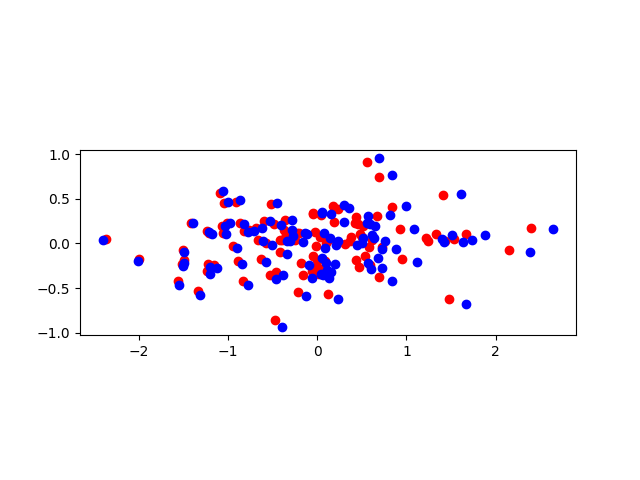
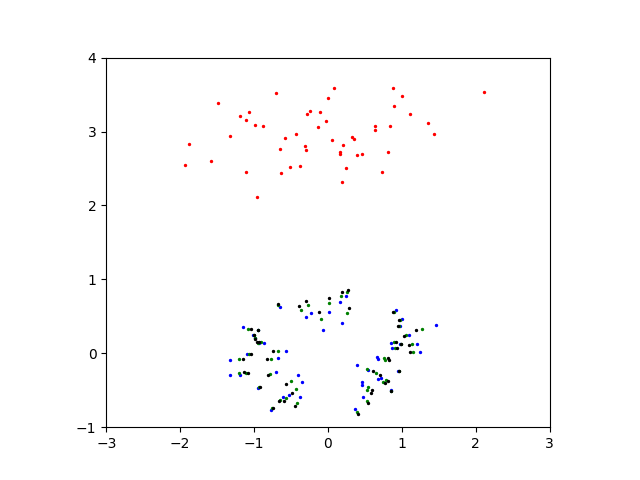
tunable exponent on magnitude works well as activation and norm

diff --git a/src/model.py b/src/model.py
@@ -5,7 +5,9 @@ import torch
 from .layers import (
     ComplexMLP,
     ComplexLinear,
-    complex_norm,
+    recenter,
+    magnitude_exponent,
+    MagnitudeExponent,
     get_rotary_position_vectors,
 )
 
@@ -29,18 +31,24 @@ class Spectracles(nn.Module):
         self.pe_dim = pe_dim
 
         self.proj_in = nn.Linear(input_channels, width, bias=False)
+        self.norm_in = MagnitudeExponent(pow=1.0)
 
         self.post_fft_projs = nn.ModuleList()
+        self.freq_mag_exps: list[MagnitudeExponent] = nn.ModuleList()
         self.post_fft_mlps = nn.ModuleList()
         self.post_ifft_projs = nn.ModuleList()
+        self.pixel_mag_exps: list[MagnitudeExponent] = nn.ModuleList()
         self.post_ifft_mlps = nn.ModuleList()
         for _ in range(blocks):
             self.post_fft_projs.append(ComplexLinear(width, width, bias=True))
+            self.freq_mag_exps.append(MagnitudeExponent(pow=0.5))
             self.post_fft_mlps.append(ComplexMLP(width, depth=mlp_depth))
             self.post_ifft_projs.append(ComplexLinear(width, width, bias=True))
+            self.pixel_mag_exps.append(MagnitudeExponent(pow=0.5))
             self.post_ifft_mlps.append(ComplexMLP(width, depth=mlp_depth))
 
         self.out_proj = ComplexLinear(width, num_classes, bias=True)
+        self.norm_out = MagnitudeExponent(pow=1.0)
 
         self.register_buffer("pos_enc", None)
 
@@ -51,6 +59,8 @@ class Spectracles(nn.Module):
 
         x = torch.movedim(x, 1, -1)  # B, C, H, W -> B, H, W, C
         x = self.proj_in(x)  # increase channel count
+        x = recenter(x, dim=(1,2,3))
+        x = self.norm_in(x)
         x = torch.complex(x, torch.zeros_like(x))
 
         if self.pos_enc is None:
@@ -66,17 +76,21 @@ class Spectracles(nn.Module):
             residual = x
 
             x = torch.fft.fftn(x, dim=(2, 3), norm="ortho")
-            x = self.post_fft_projs[i](x)
 
-            x = complex_norm(x, dim=-1)
+            x = self.post_fft_projs[i](x)
+            x = recenter(x, dim=(1,2,3))
+            x = self.freq_mag_exps[i](x)
+            
             x = x * self.pos_enc
 
             x = self.post_fft_mlps[i](x)
 
             x = torch.fft.ifftn(x, dim=(2, 3), norm="ortho")
-            x = self.post_ifft_projs[i](x)
 
-            x = complex_norm(x, dim=-1)
+            x = self.post_ifft_projs[i](x)
+            x = recenter(x, dim=(1,2,3))
+            x = self.pixel_mag_exps[i](x)
+
             x = x * self.pos_enc
 
             x = self.post_ifft_mlps[i](x)
@@ -86,6 +100,8 @@ class Spectracles(nn.Module):
         # Average all pixels and make final prediction
         x = x.mean(dim=(1, 2))
         x = self.out_proj(x)
+        x = recenter(x, dim=1)
+        x = self.norm_out(x)
         x = torch.abs(x)
 
         return x

diff --git a/scripts/train.py b/scripts/train.py
@@ -15,6 +15,7 @@ torch.autograd.set_detect_anomaly(True)
 import wandb
 
 from ..src.model import Spectracles
+from ..src.layers import MagnitudeExponent
 
 warnings.filterwarnings(
     "ignore", "Torchinductor does not support code generation for complex operators"
@@ -72,6 +73,7 @@ if not args.print_params:
     wandb.init(project="spectracles", config=config, name=args.name)
     include_fn = lambda path: path.endswith(".py")
     wandb.run.log_code("./spectracles", include_fn=include_fn)
+    wandb.watch(model, log="parameters", log_freq=390)
 
     train_transforms = (
         tvt.Compose(
@@ -159,10 +161,15 @@ if not args.print_params:
 
         train_accuracy = correct / total
 
-        # print("/n")
-        # for norm in model.complex_norms:
-        #     print(norm.mean_mag.item(), norm.std_mag.item())
-        # model.eval()
+        # print("\n")
+        # print([f"{norm.pow_offset.item() + 1:.2f}" for norm in model.freq_mag_exps])
+        # print([f"{norm.pow_offset.item() + 1:.2f}" for norm in model.pixel_mag_exps])
+        # print([f"{norm.pow_offset.item() + 1:.2f}" for norm in [l for l in model.post_fft_mlps[0].layers if isinstance(l, MagnitudeExponent)]])
+        # print([f"{norm.pow_offset.item() + 1:.2f}" for norm in [l for l in model.post_ifft_mlps[0].layers if isinstance(l, MagnitudeExponent)]])
+        # print([f"{norm.pow_offset.item() + 1:.2f}" for norm in [l for l in model.post_fft_mlps[-1].layers if isinstance(l, MagnitudeExponent)]])
+        # print([f"{norm.pow_offset.item() + 1:.2f}" for norm in [l for l in model.post_ifft_mlps[-1].layers if isinstance(l, MagnitudeExponent)]])
+
+        model.eval()
         if SAVE:
             torch.save(model.state_dict(), f"spectracles/weights/{epoch:03d}.ckpt")
 

diff --git a/src/layers.py b/src/layers.py
@@ -54,14 +54,22 @@ class ComplexActivation(nn.Module):
 
         return x
 
+def recenter(x: Tensor, dim: tuple) -> Tensor:
+    return x - torch.mean(x, dim=dim, keepdim=True)
 
-def complex_norm(x: Tensor, dim: tuple) -> Tensor:
-    x = x - torch.mean(x, dim=dim, keepdim=True)
-    real = x.real / (x.real.std(dim=dim, keepdim=True) + 1e-6)
-    imag = x.imag / (x.imag.std(dim=dim, keepdim=True) + 1e-6)
-    x = torch.complex(real, imag)
+def magnitude_exponent(x: Tensor, pow=1/2) -> Tensor:
+
+    mag = torch.abs(x) + 1e-6
+    x = x / mag * torch.pow(mag, pow)
 
     return x
+
+class MagnitudeExponent(nn.Module):
+    def __init__(self, pow=0.0):
+        super().__init__()
+        self.pow_offset = nn.Parameter(torch.tensor(float(pow - 1)))
+    def forward(self, x: Tensor) -> Tensor:
+        return magnitude_exponent(x, 1 + self.pow_offset)
 
 
 def real_norm(x: Tensor, dim: tuple) -> Tensor:
@@ -106,14 +114,11 @@ class ComplexMLP(nn.Module):
 
         super().__init__()
 
-        self.activation = ComplexActivation(nn.GELU())
-
         self.layers = nn.Sequential()
-        for _ in range(depth - 1):
+        for _ in range(depth):
             self.layers.append(ComplexLinear(width, width, bias=True))
-            self.layers.append(self.activation)
+            self.layers.append(MagnitudeExponent(pow=1.0))
 
-        self.layers.append(ComplexLinear(width, width, bias=True))
 
     def forward(self, x: Tensor) -> Tensor:
         x = self.layers(x)

diff --git a/scripts/complex_norm.py b/scripts/complex_norm.py
@@ -1,18 +1,30 @@
 import torch
 import matplotlib.pyplot as plt
 
-skewed = torch.randn(100, 2)
-skewed[:, 1] = 0.1 * skewed[:, 0] + 0.3 * skewed[:, 1]
-plt.scatter(skewed[:, 0], skewed[:, 1], c="r")
+skewed = torch.randn(50, 2)
+skewed[:, 1] = 0.1 * skewed[:, 0] + 0.3 * skewed[:, 1] + 0.5
+skewed = skewed + torch.tensor([0.0, 2.5])
+plt.scatter(skewed[:, 0], skewed[:, 1], c="r", s=2)
 
 # normed = (skewed - skewed.mean(dim=0, keepdim=True)) / skewed.std(dim=0, keepdim=True)
 # plt.scatter(normed[:, 0], normed[:, 1], c='b')
 
 c_skewed = torch.view_as_complex(skewed)
-c_normed = (c_skewed - c_skewed.mean(dim=0, keepdim=True)) / c_skewed.std(
-    dim=0, keepdim=True
-)
-plt.scatter(c_normed.real, c_normed.imag, c="b")
+
+c_normed = (c_skewed - c_skewed.mean(dim=0, keepdim=True))
+mag = torch.abs(c_normed) + 1e-6
+c_normed_2 = c_normed / mag * torch.pow(mag, 1/2)
+c_normed_3 = c_normed / mag * torch.pow(mag, 1/3)
+c_normed_4 = c_normed / mag * torch.pow(mag, 1/4)
+
+# c_normed = (c_skewed - c_skewed.mean(dim=0, keepdim=True)) / c_skewed.std(
+#     dim=0, keepdim=True
+# )
+plt.scatter(c_normed_2.real, c_normed_2.imag, c="b", s=2)
+plt.scatter(c_normed_3.real, c_normed_3.imag, c="g", s=2)
+plt.scatter(c_normed_4.real, c_normed_4.imag, c="black", s=2)
 
 plt.axis("scaled")
+plt.xlim(-3, 3)
+plt.ylim(-1, 4)
 plt.savefig("spectracles/norm.png")
